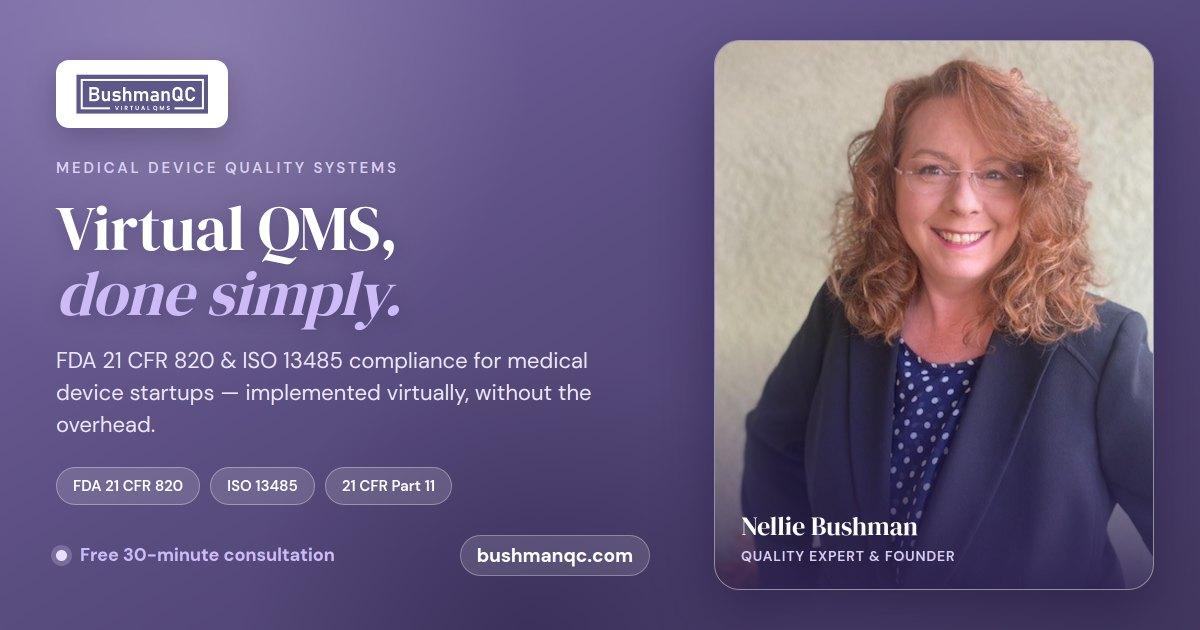
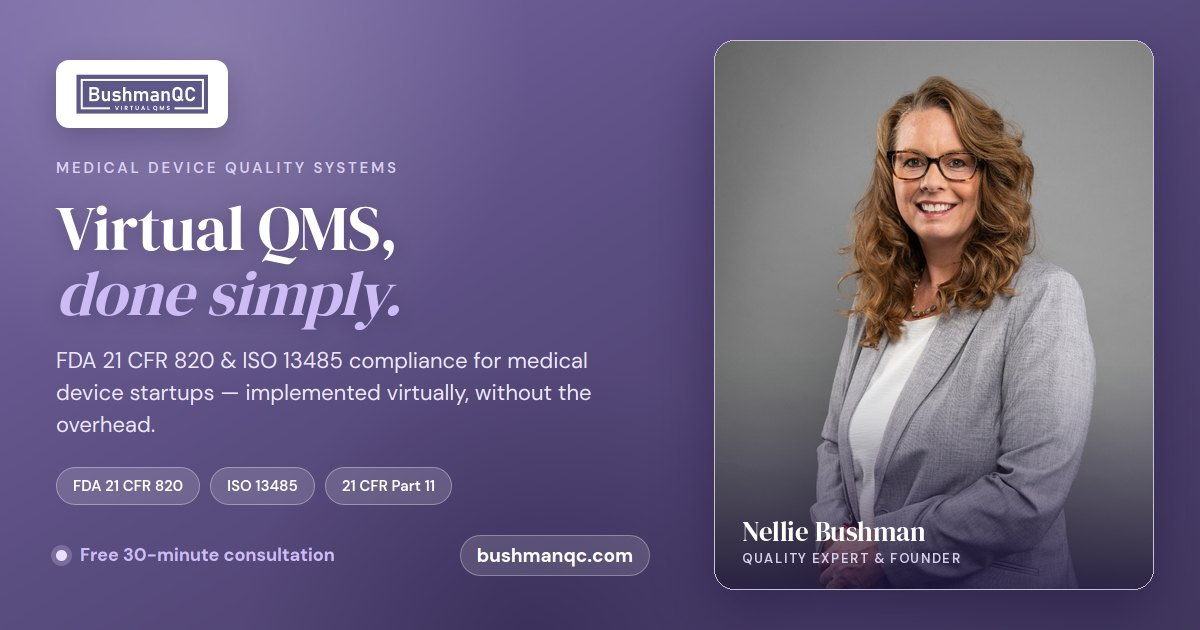
Replace Nellie's headshot and OG share card with new studio photo (#17)
* Replace Nellie's headshot with new studio photo

Crop the new portrait to the site's 4:5 ratio and encode it as an
800x1000 WebP (2x the 400x500 display size) so the hero, about card,
and article author avatars all pick it up without markup changes.

Claude-Session: https://claude.ai/code/session_01GQKXpRCpghnqZvn8LdaT4C

* Update OG share card with new headshot

Composite the new studio portrait into the existing 1200x630 social
share card, keeping the layout, copy, and name/role overlay.

Claude-Session: https://claude.ai/code/session_01GQKXpRCpghnqZvn8LdaT4C

---------

Changed region(s): [[0.5858, 0.0603, 0.9867, 0.9349], [0.5858, 0.9048, 0.6167, 0.9349]]

diff --git a/README-SEO.md b/README-SEO.md
@@ -109,7 +109,7 @@ Without analytics you cannot see what people do on the site after they arrive.
 
 ### 5. Optimize `nellie.webp` — ✅ done
 
-The hero image was a 292 KB PNG mislabeled `.webp`. It's now re-encoded as a **true WebP at ~24 KB** (same 400×500 dimensions, no visible quality loss) — a ~92% reduction. Because the filename is unchanged, the hero, the `<link rel="preload">`, the Schema.org `image`, and the About-page reference all benefit automatically with no markup changes. This is the LCP image, so it directly improves the mobile PageSpeed score Google uses as a ranking tiebreaker.
+The hero image was a 292 KB PNG mislabeled `.webp`. It's now a **true WebP at ~53 KB** (800×1000, a 2× retina version of the 400×500 display size, cropped to the same 4:5 ratio from the newer studio headshot) — an ~82% reduction from the original. Because the filename is unchanged, the hero, the `<link rel="preload">`, the Schema.org `image`, and the About-page reference all benefit automatically with no markup changes. This is the LCP image, so it directly improves the mobile PageSpeed score Google uses as a ranking tiebreaker.
 
 ### 6. Set up Google Business Profile (~15 min, free)
 
